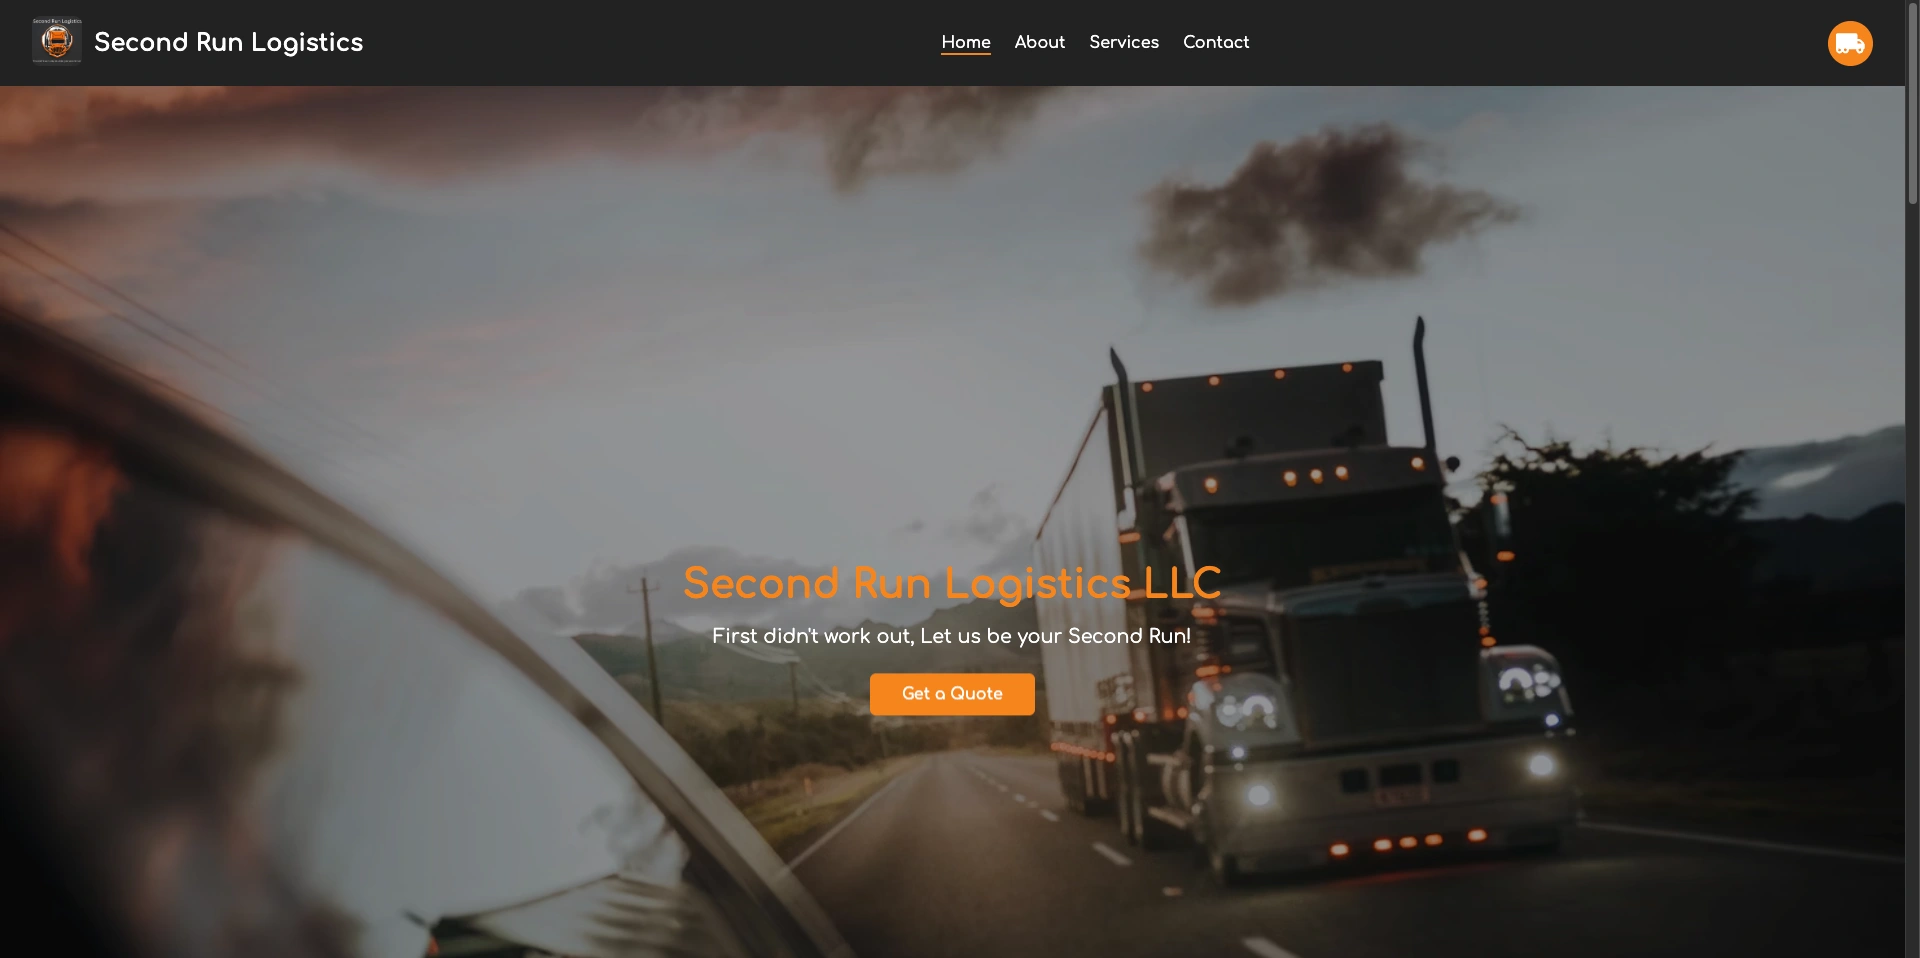
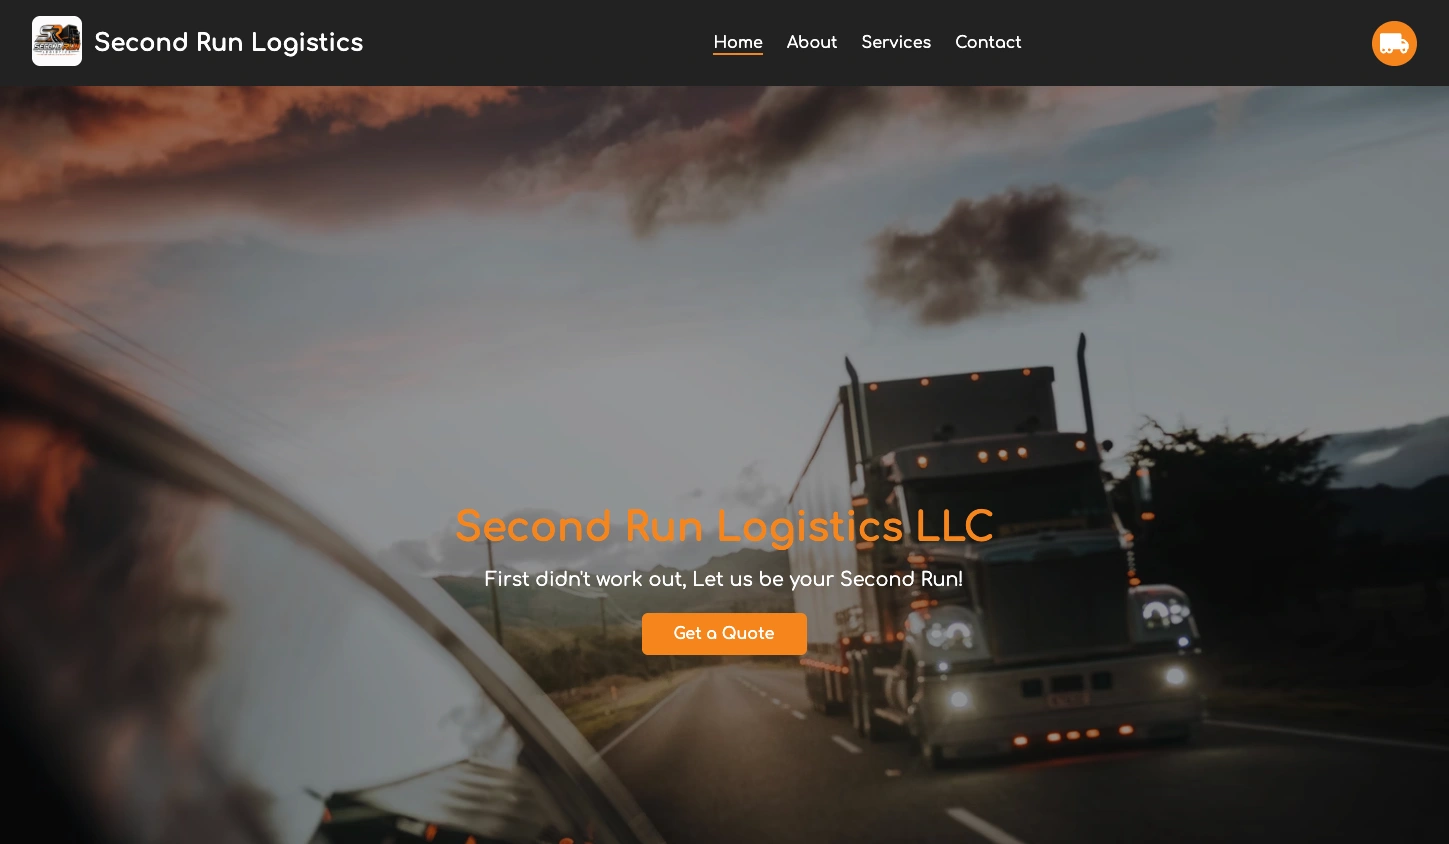
feat: update project technologies to include Vercel and replace outdated images

diff --git a/src/data/projects.js b/src/data/projects.js
@@ -124,7 +124,7 @@ const projects = [
     role: "Freelance Web Developer",
     timeline: "August 2023 - September 2025",
 
-    technologies: ["React", "EmailJS", "GitHub Pages"],
+    technologies: ["React", "EmailJS", "Vercel"],
 
     image: secondRunDesktop,
     imageAlt: "Second Run Logistics website displayed on a desktop screen",
@@ -265,7 +265,7 @@ const projects = [
     role: "Web Developer",
     timeline: "June 2026",
 
-    technologies: ["React"],
+    technologies: ["React", "Vercel"],
 
     image: blessBunnyDesktop,
     imageAlt:
@@ -417,6 +417,7 @@ const projects = [
       "JavaScript",
       "CSS",
       "Stripe",
+      "Vercel",
     ],
 
     image: nicholeBeautyDesktop,
